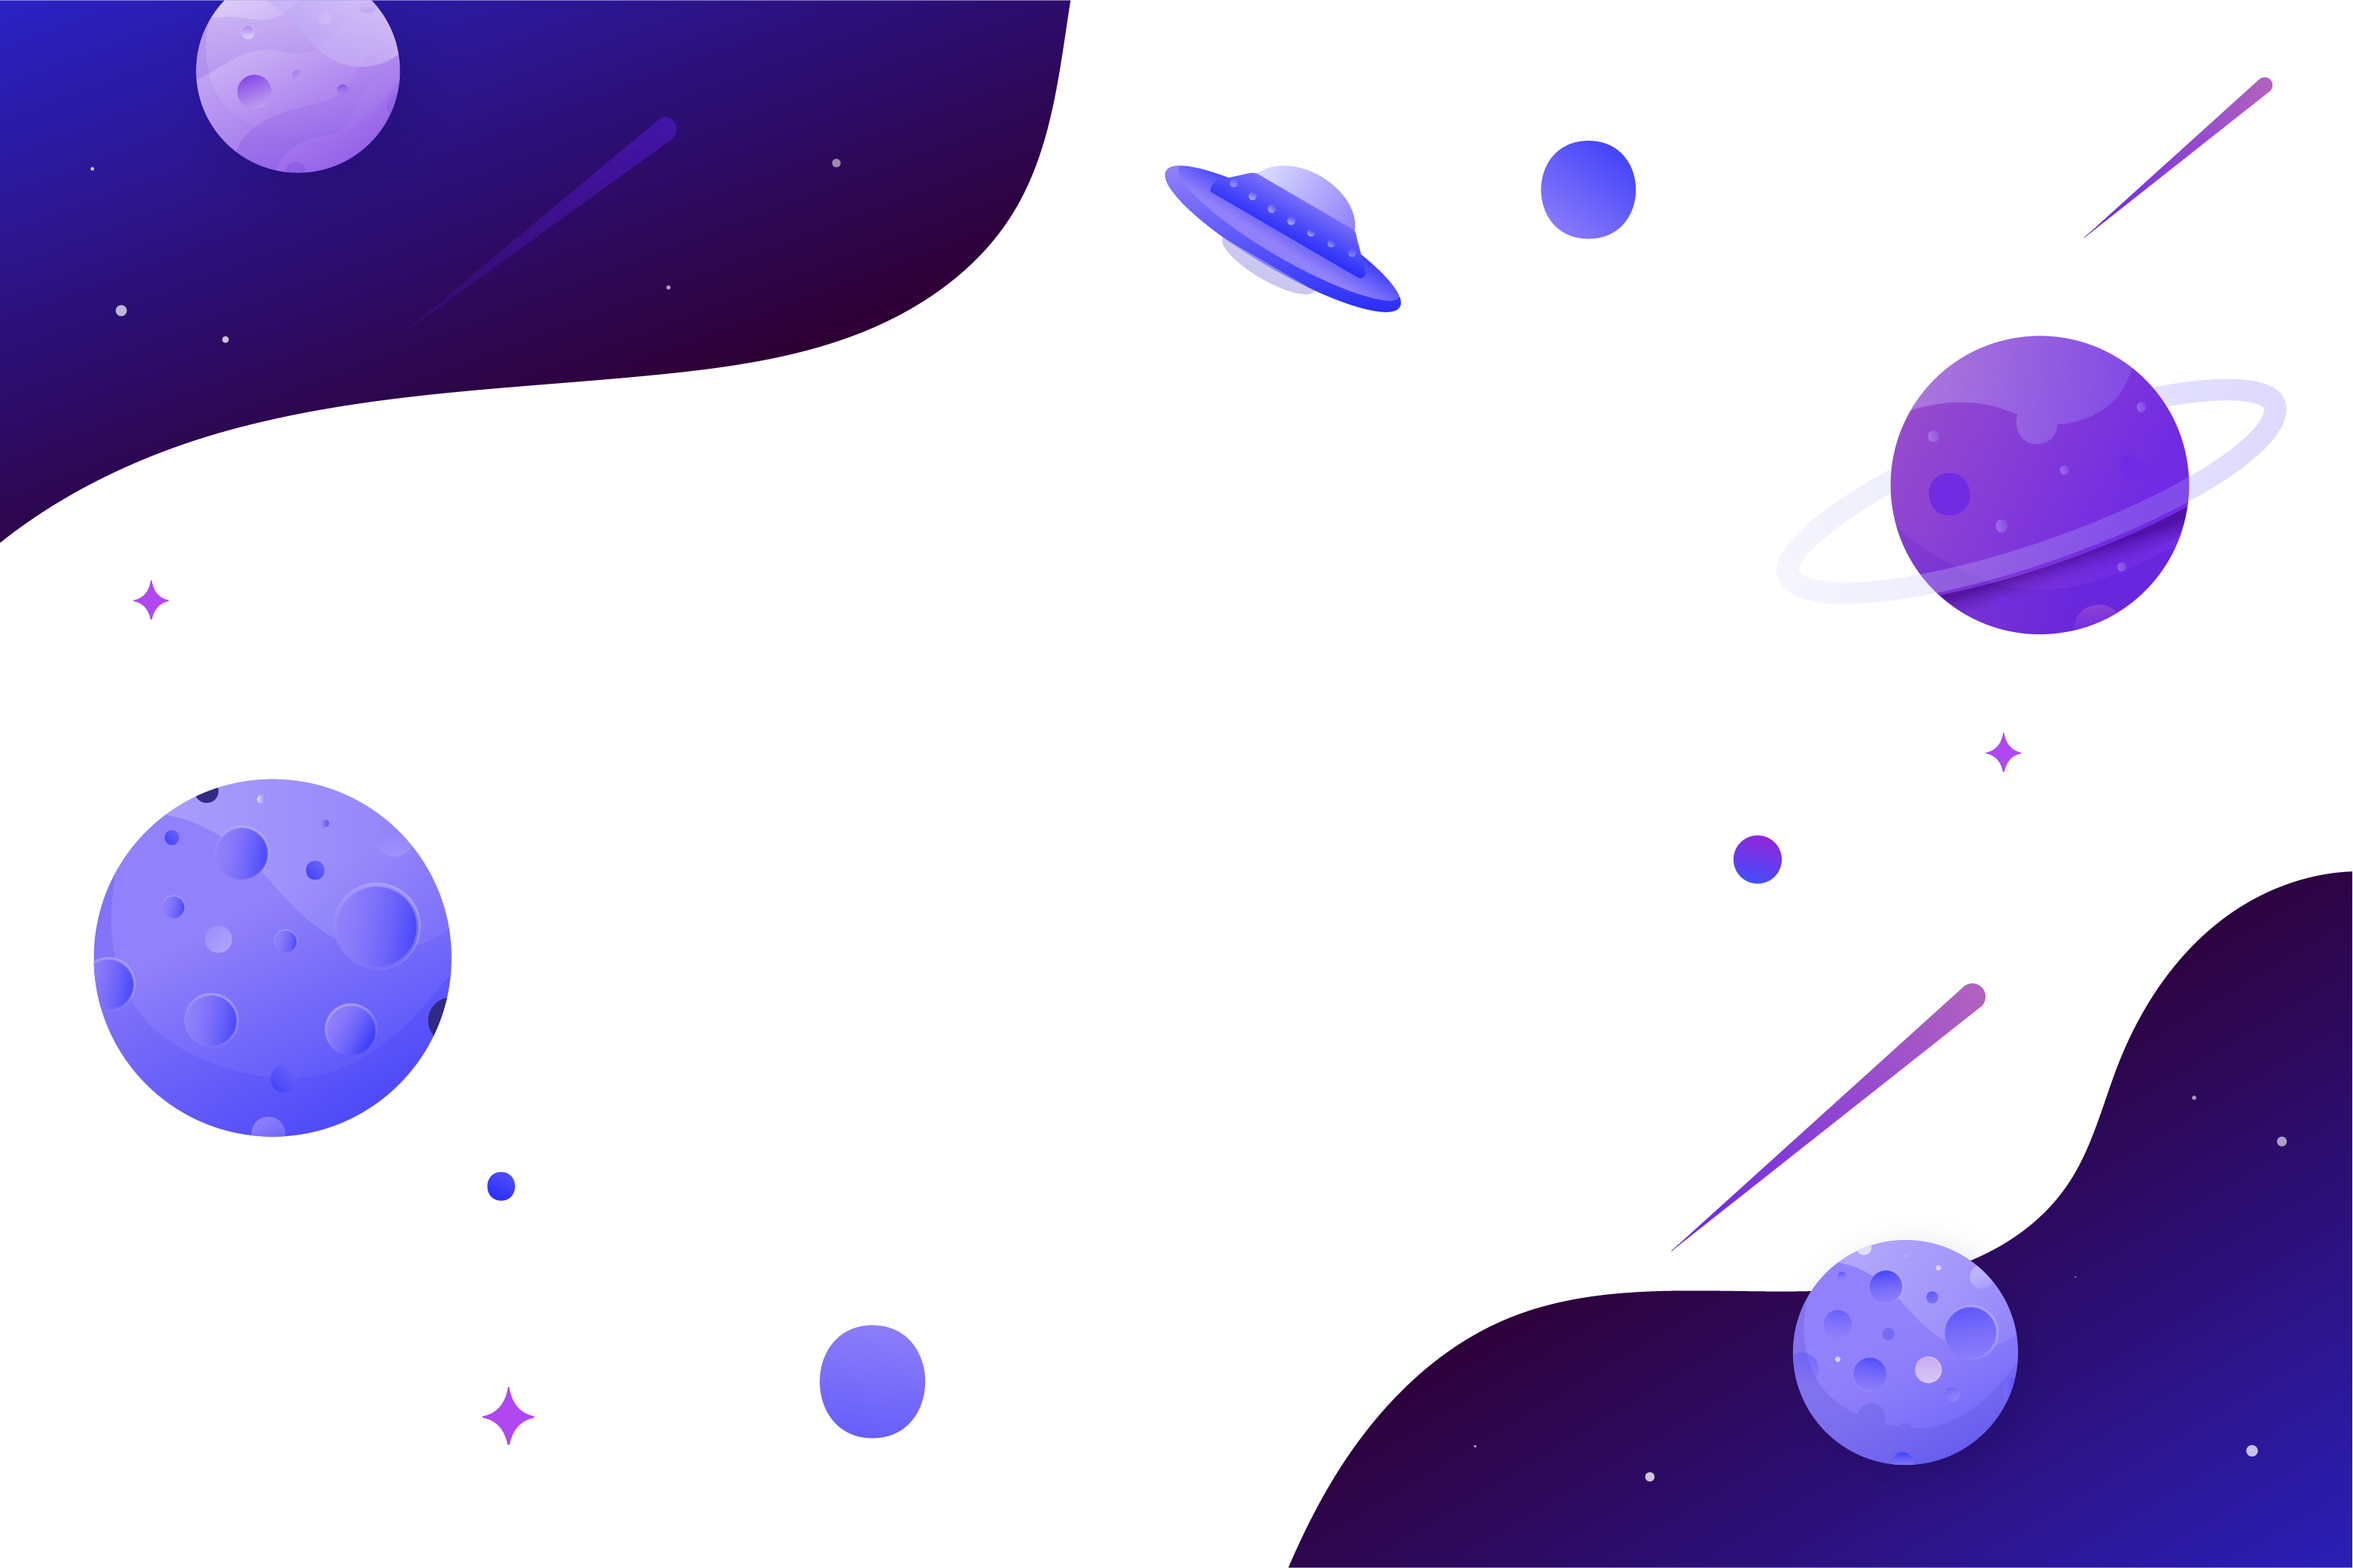
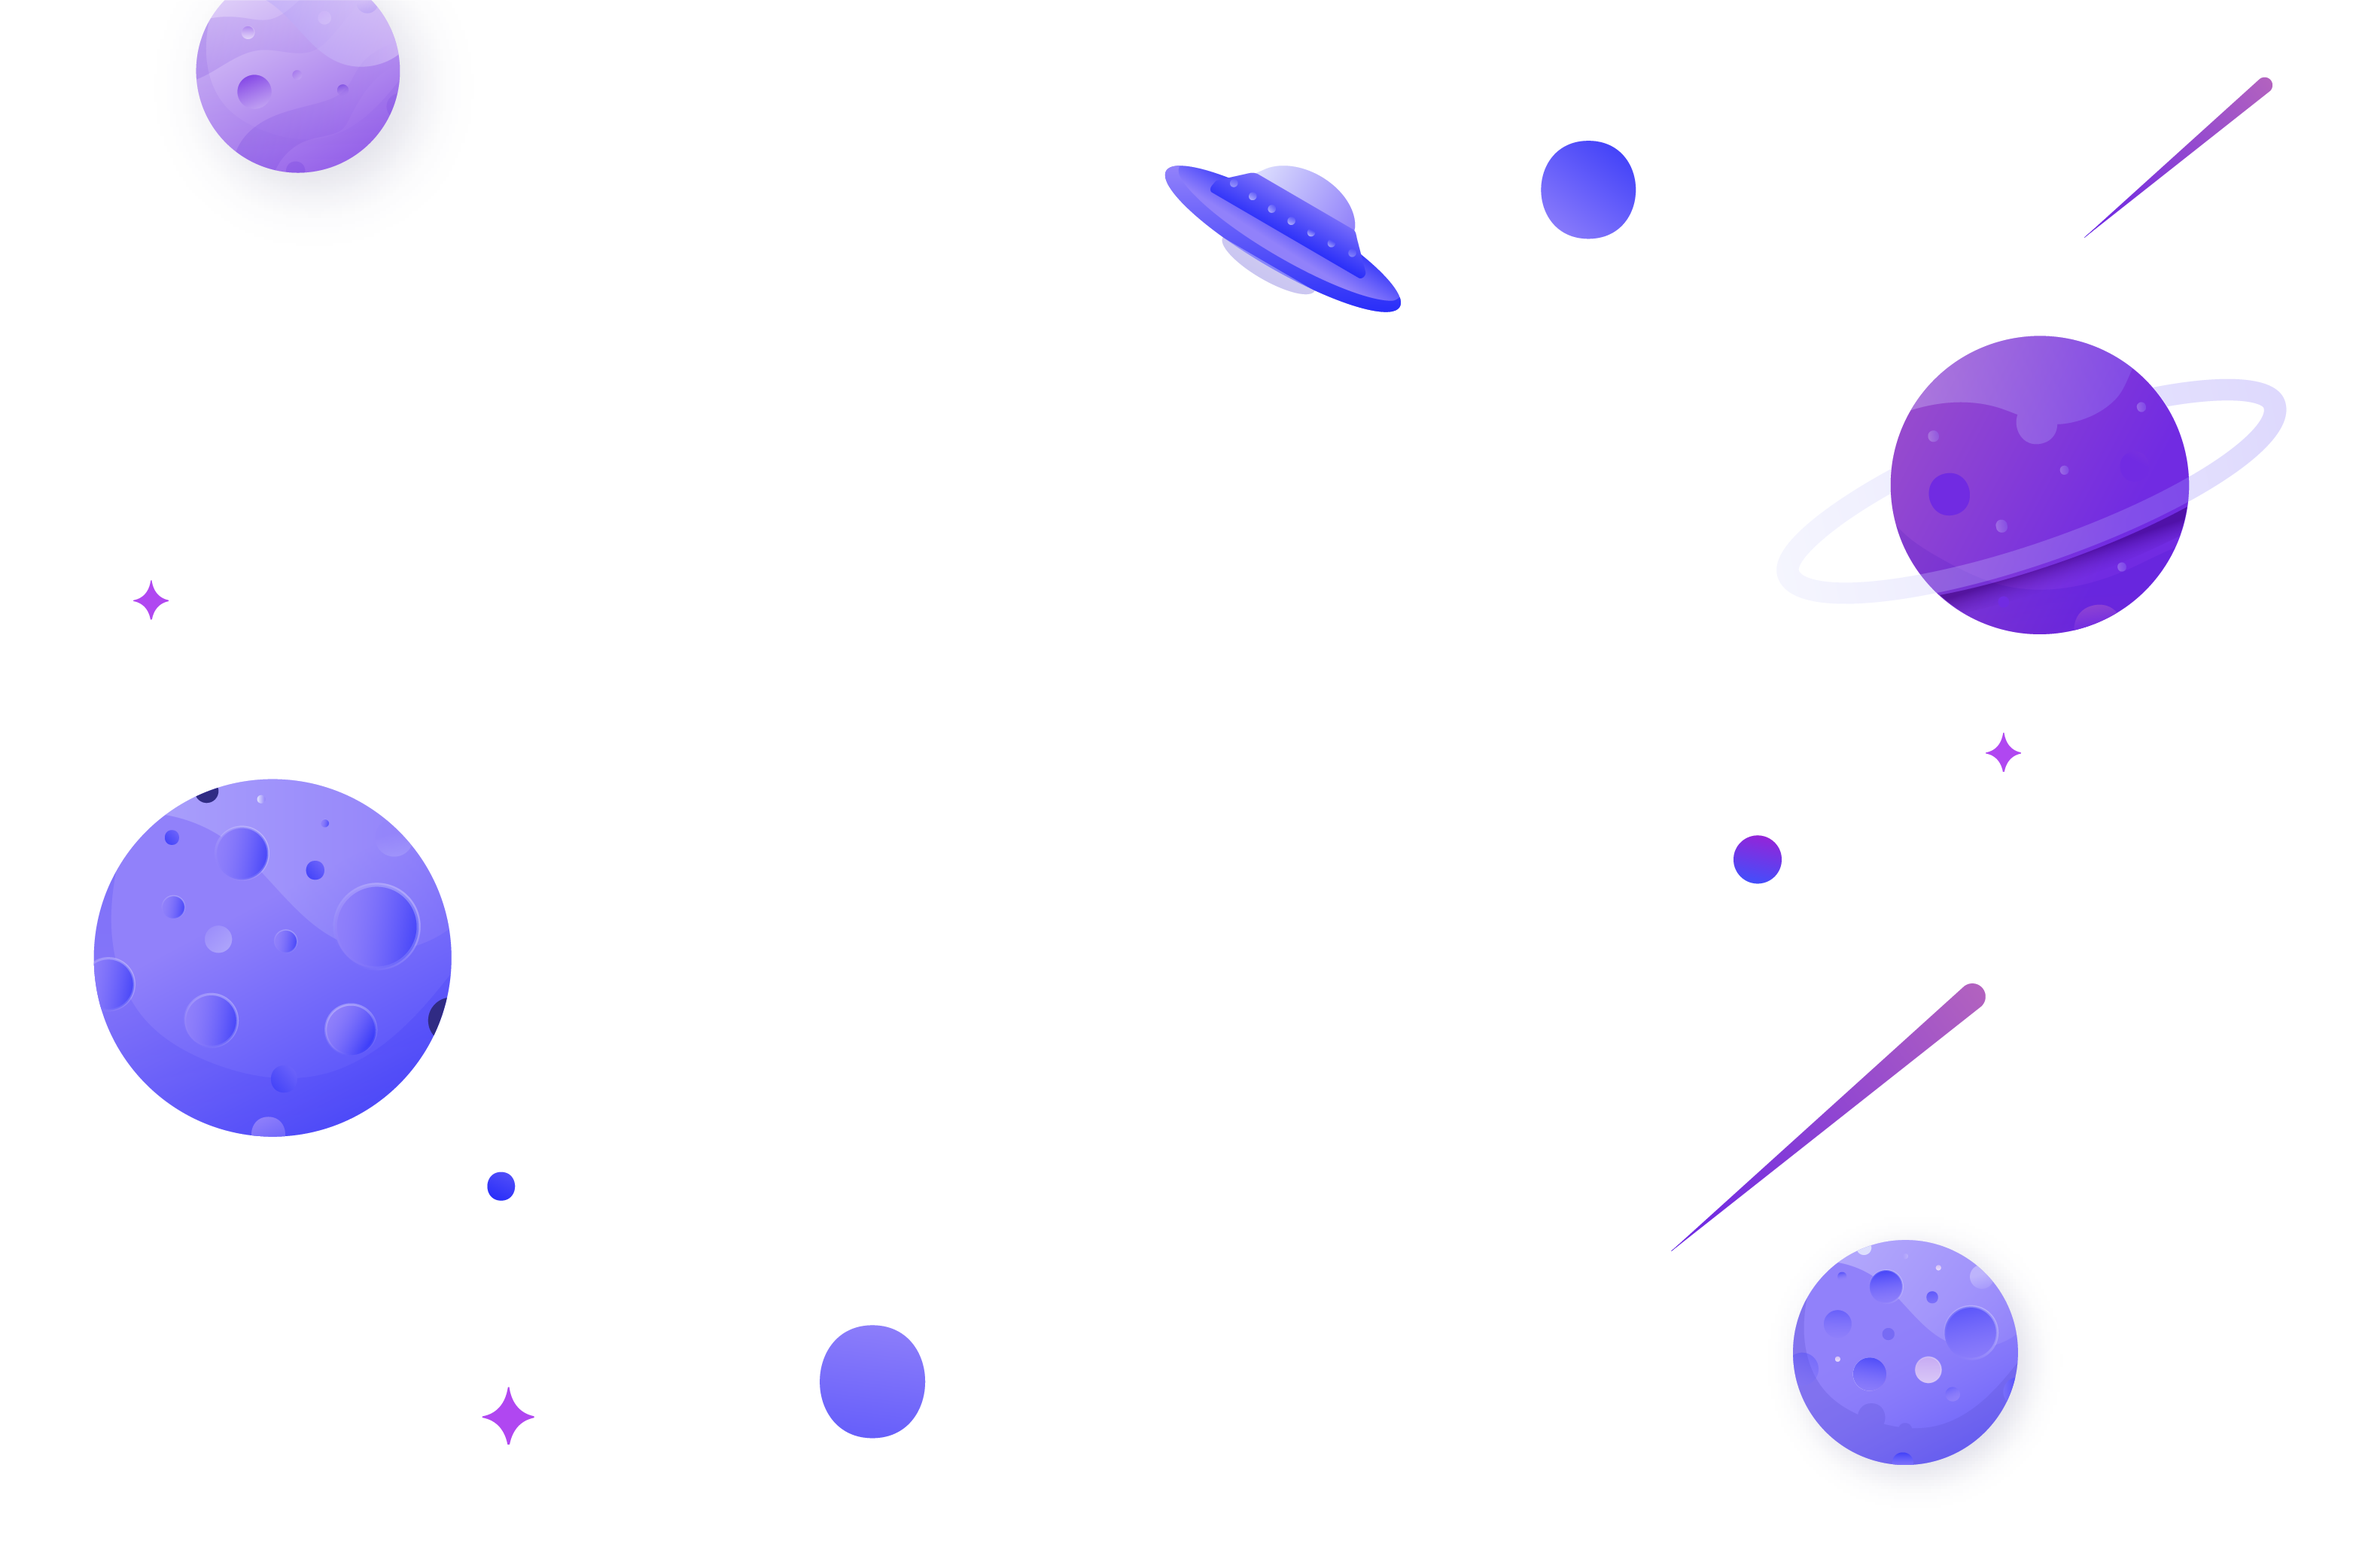
Background image

Changed region(s): [[0.5275, 0.5302, 1.0, 1.0], [0.0, 0.0, 0.4655, 0.3431]]

diff --git a/src/pages/Hero.tsx b/src/pages/Hero.tsx
@@ -1,16 +1,9 @@
 /* eslint-disable global-require */
 import { Box, Button, Container, Heading, Stack, Text } from '@chakra-ui/react';
-import BackgroundImage from '../assets/hero.png';
 
 export default function Hero() {
   return (
-    <Box
-      backgroundImage={`url(${BackgroundImage})`}
-      backgroundPosition="center"
-      backgroundRepeat="no-repeat"
-      backgroundSize="cover"
-      height="calc(100vh)"
-    >
+    <Box>
       <Container maxW="3xl">
         <Stack
           as={Box}
@@ -19,11 +12,11 @@ export default function Hero() {
           py={{ base: 20, md: 36 }}
         >
           <Heading
-            fontWeight={600}
+            fontWeight={650}
             fontSize={{ base: '2xl', sm: '4xl', md: '7xl' }}
             lineHeight="110%"
           >
-            Discover, Collect and Sell Rare NFTs <br />
+            AstroNUTZ, as your mom calls it <br />
           </Heading>
           <Text color="gray.500">
             Monetize your content by charging your most loyal readers and reward

diff --git a/src/App.tsx b/src/App.tsx
@@ -1,10 +1,17 @@
 import { Box } from '@chakra-ui/react';
+import BackgroundImage from './assets/hero.png';
 import NavBar from './components/navigation/NavBar';
 import HomePage from './pages/HomePage';
 
 function App(): JSX.Element {
   return (
-    <Box h="calc(100vh)">
+    <Box
+      backgroundImage={`url(${BackgroundImage})`}
+      backgroundPosition="center"
+      backgroundRepeat="no-repeat"
+      backgroundSize="cover"
+      height="calc(100vh)"
+    >
       <NavBar />
       <HomePage />
     </Box>
